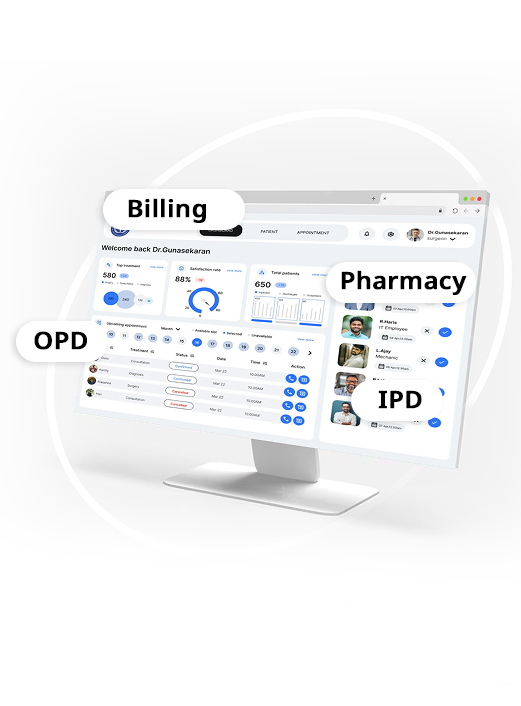
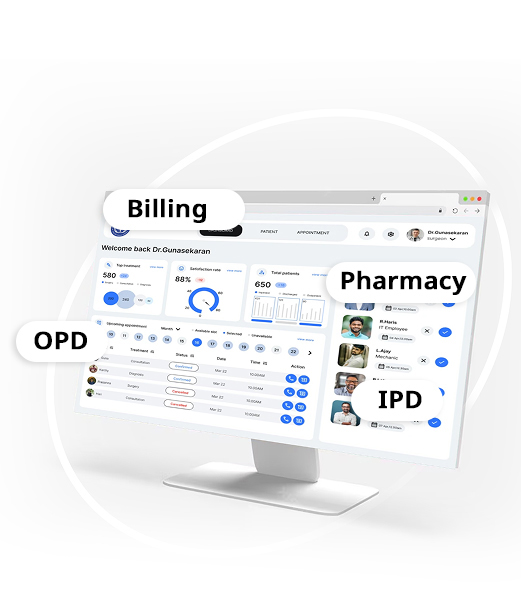
dsv
vfvf

Changed region(s): [[0.0614, 0.2709, 0.952, 0.8729]]

diff --git a/hmis-punjab-final-design/index.html b/hmis-punjab-final-design/index.html
@@ -179,7 +179,7 @@
         <section id="about" class="pt-md-5 pt-lg-5 pt-xl-5 pt-xxl-5">
             <div class="container-fluid px-md-3 px-lg-4 px-xl-5 px-xxl-5">
                 <div class="row">
-                    <div class="col-lg-8 col-md-8  p-2">
+                    <div class="col-lg-8 col-md-8">
                         <div class="aboutus text-start">
                             <h3 class="text-transform-uppercase fw-bold">About Us</h3>
                             <h4 class="text-start text-white py-1 mb-2 fw-semibold">Provide best quality healthcare for
